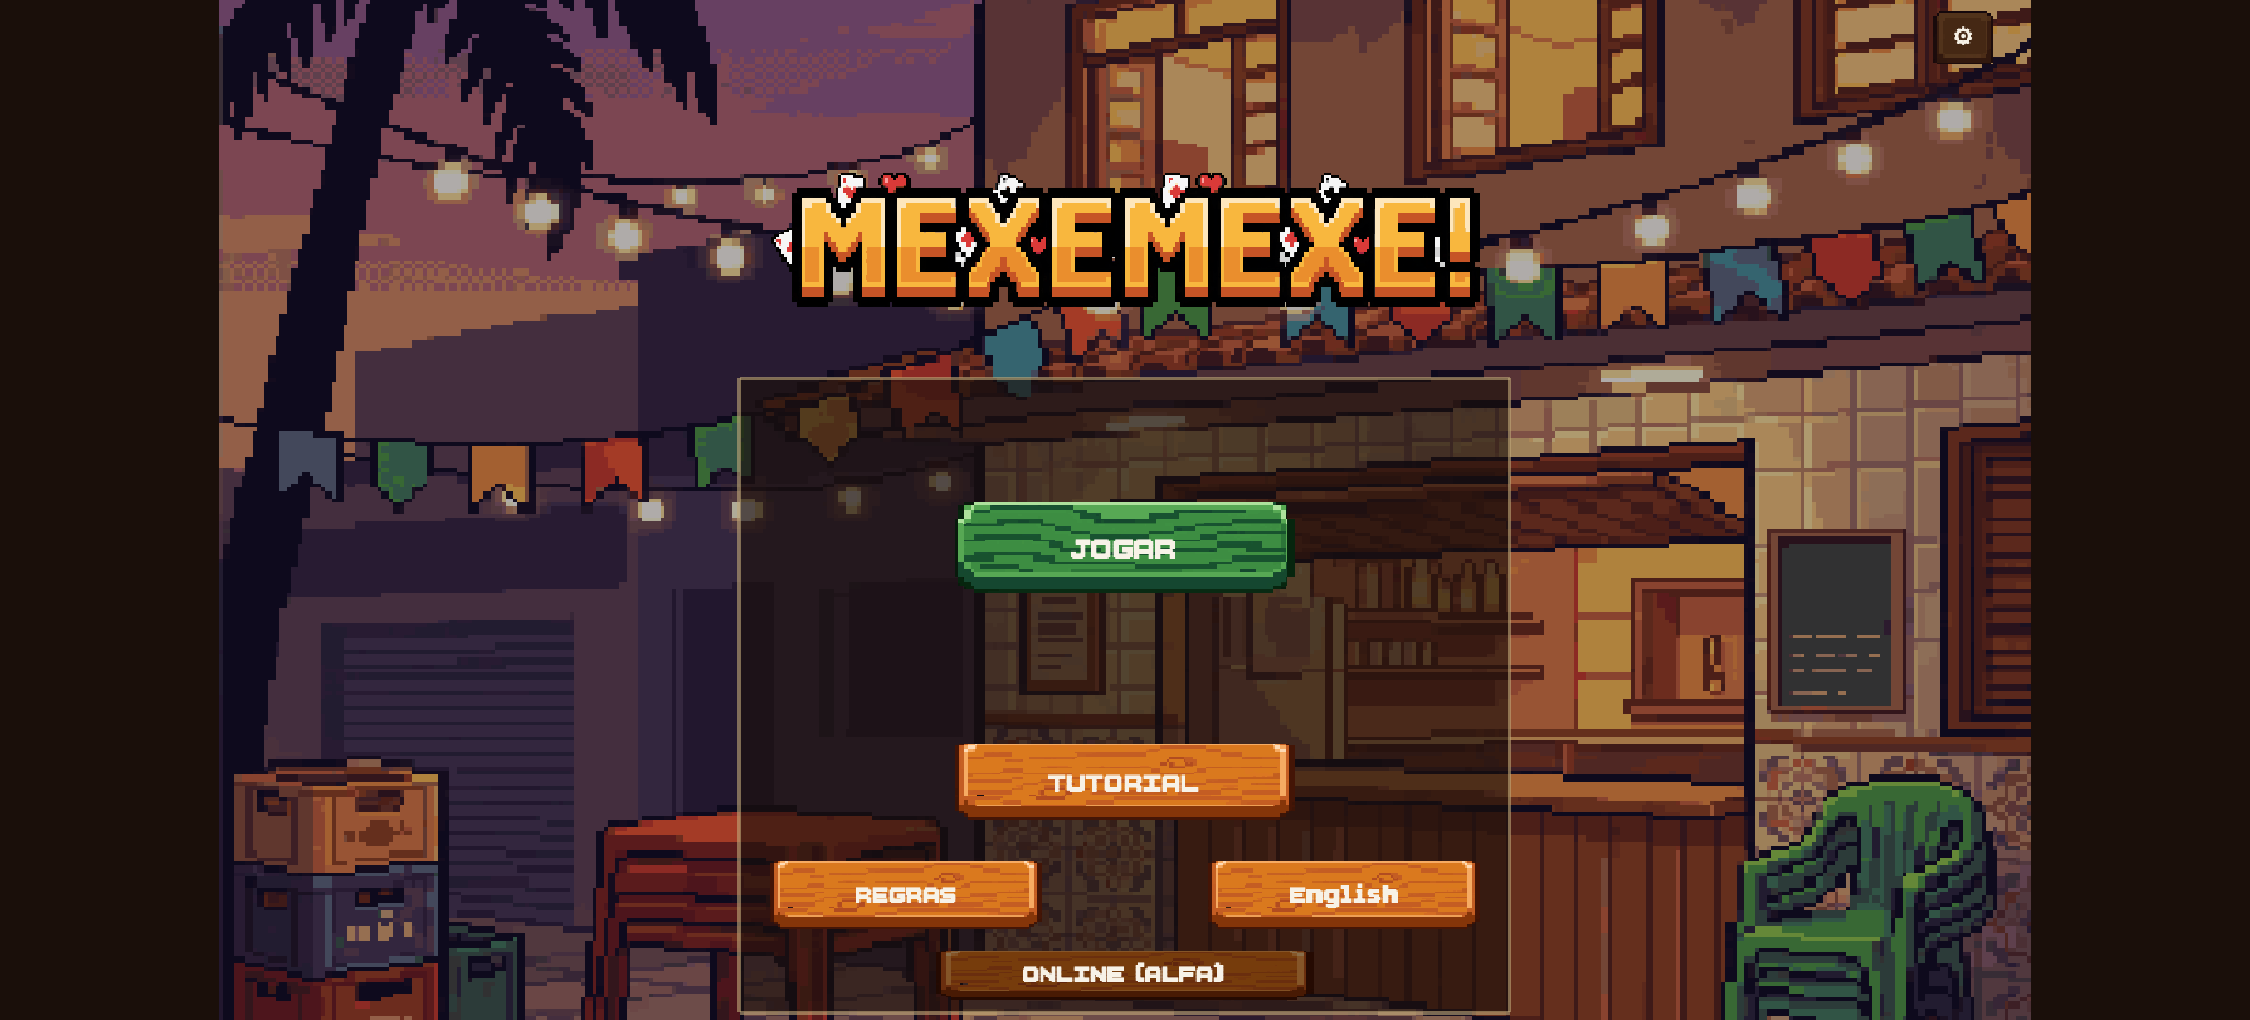
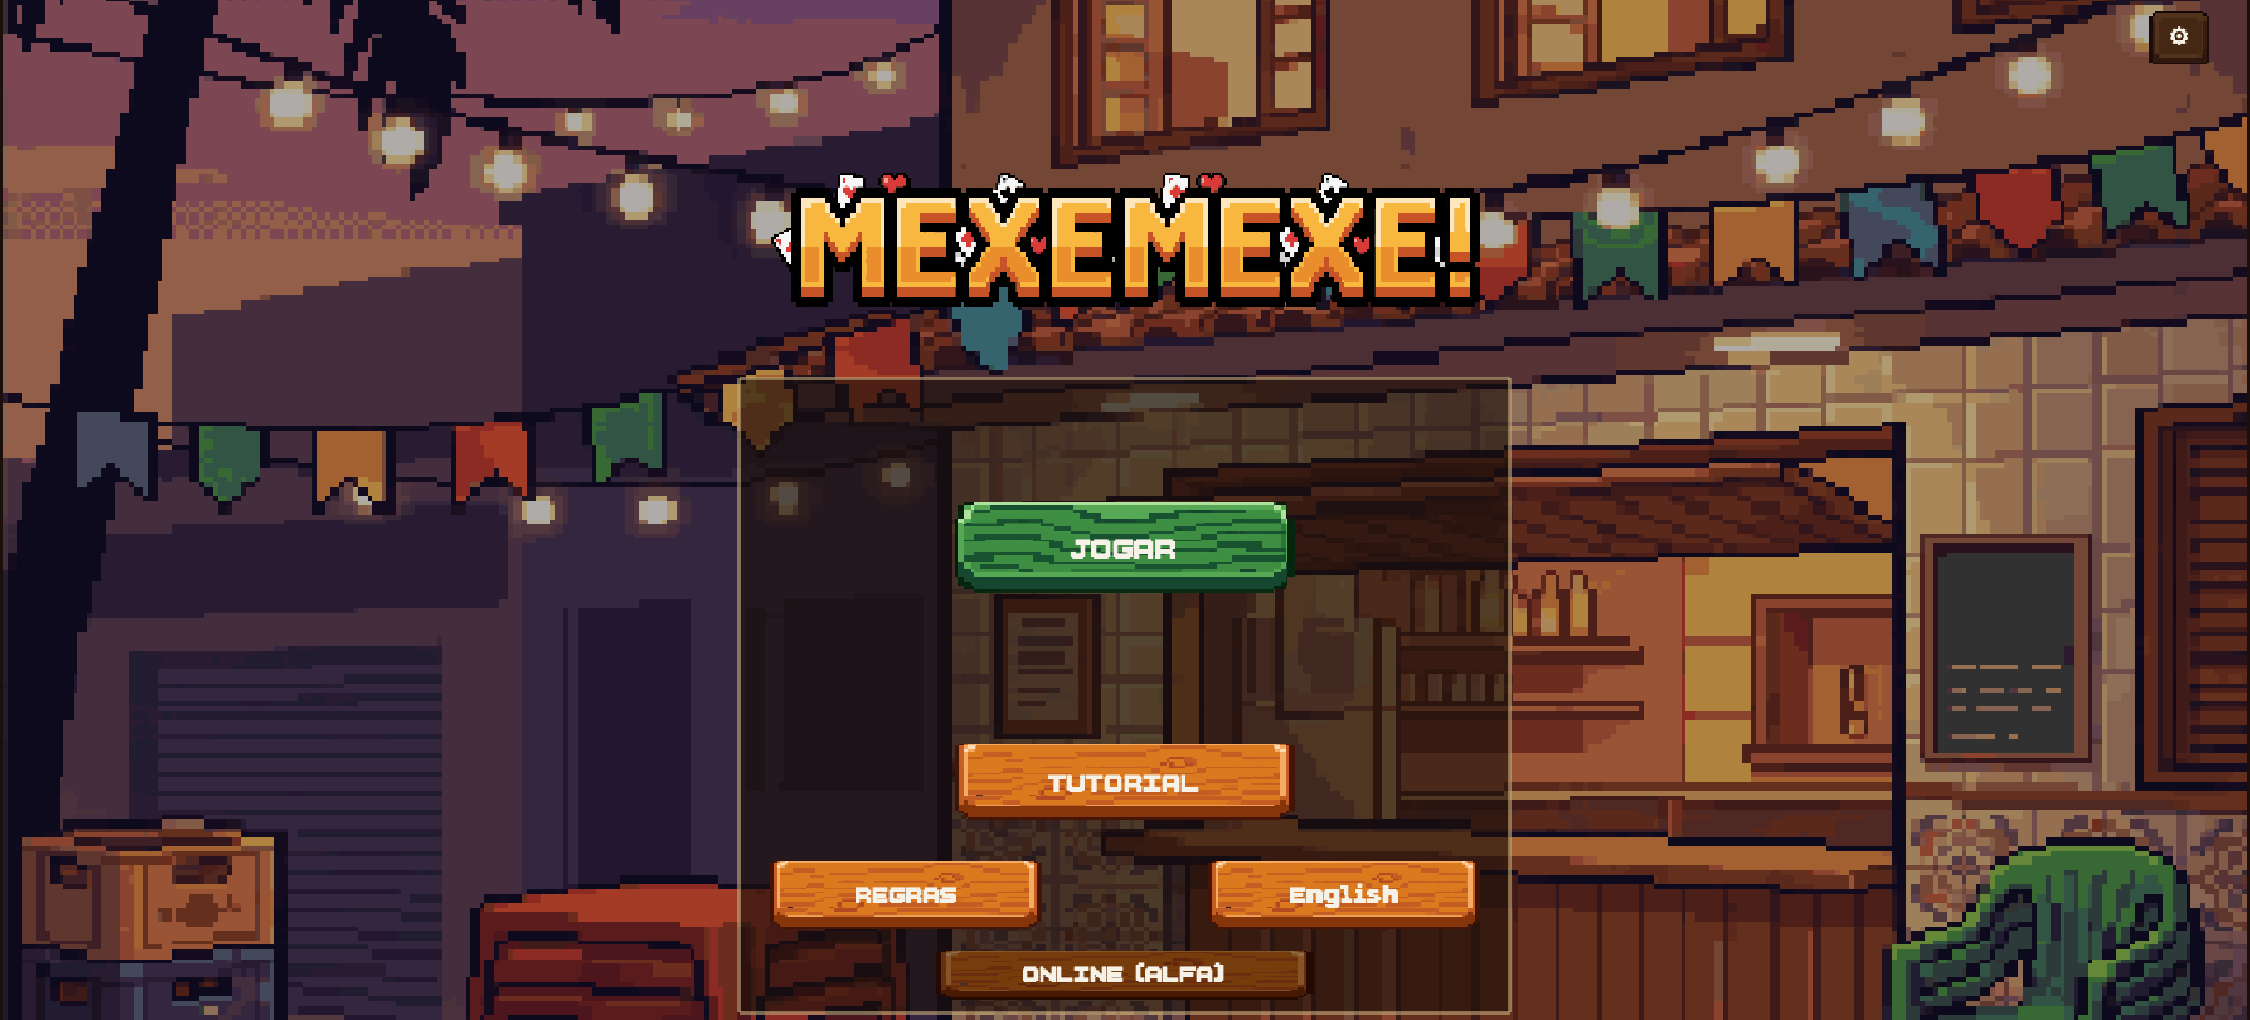
test(cross): read the world aspect from the running game
The cross-browser layout gate hardcoded 480/270 as the expected canvas
aspect, and the settings-slider test hardcoded the SFX track at world
x 210..310. Both assumed a fixed-width landscape world, so both broke on
the phone projects once the world started widening with the window.

Neither is a weaker assertion: the aspect check now reads the live world
from __MEXE__.viewport() and still fails on any stretch, and the slider
click is still aimed 10 units into the track, now measured from the live
centre instead of a baked-in 240.

Claude-Session: https://claude.ai/code/session_01DYFhvd3i1b1coFbc1WSTqX

diff --git a/e2e-cross/layout.spec.ts b/e2e-cross/layout.spec.ts
@@ -3,9 +3,11 @@ import fs from 'node:fs';
 import path from 'node:path';
 
 /**
- * Cross-browser layout gate: the game is one fixed 480x270 world scaled with Phaser's FIT mode,
+ * Cross-browser layout gate: the game is one fixed-height world scaled with Phaser's FIT mode,
  * so "aligned" means the canvas fits fully inside the viewport, stays centred, and keeps the
- * 16:9 aspect — on every engine (Chrome, Firefox, Safari/WebKit) and on phone viewports.
+ * live world's aspect — on every engine (Chrome, Firefox, Safari/WebKit) and on phone viewports.
+ * The landscape world widens with the window (src/ui/viewport.ts), so the expected aspect is
+ * read from the running game rather than hardcoded.
  * Runs the same three screens per project; screenshots land per project for eyeballing.
  */
 const OUT_DIR = 'docs/screenshots/cross-browser';
@@ -27,7 +29,12 @@ for (const screen of SCREENS) {
     const box = await page.evaluate(() => {
       const c = document.querySelector('canvas')!;
       const r = c.getBoundingClientRect();
-      return { x: r.x, y: r.y, w: r.width, h: r.height, vw: window.innerWidth, vh: window.innerHeight };
+      const v = window.__MEXE__.viewport();
+      return {
+        x: r.x, y: r.y, w: r.width, h: r.height,
+        vw: window.innerWidth, vh: window.innerHeight,
+        worldAspect: v.w / v.h,
+      };
     });
 
     // no overflow in either axis (1px slack for sub-pixel rounding across engines)
@@ -38,8 +45,8 @@ for (const screen of SCREENS) {
     // centred: equal margins left/right and top/bottom
     expect(Math.abs(box.x - (box.vw - box.w - box.x))).toBeLessThanOrEqual(2);
     expect(Math.abs(box.y - (box.vh - box.h - box.y))).toBeLessThanOrEqual(2);
-    // 16:9 preserved (FIT must never stretch)
-    expect(box.w / box.h).toBeCloseTo(480 / 270, 1);
+    // world aspect preserved (FIT must never stretch)
+    expect(box.w / box.h).toBeCloseTo(box.worldAspect, 1);
     // fills at least one axis — otherwise the world was scaled down for no reason
     expect(Math.max(box.w / box.vw, box.h / box.vh)).toBeGreaterThan(0.98);
 
@@ -57,13 +64,14 @@ test('settings sliders respond to a click at the point clicked', async ({ page }
   await page.waitForFunction(() => window.__MEXE__?.ready === true, undefined, { timeout: 30_000 });
 
   // Click the SFX track near its left end and read back what was persisted. The track spans
-  // world x 210..310 at y 46 (settings-panel.ts: cx-30, first row + ROW_PITCH).
-  const scale = await page.evaluate(() => document.querySelector('canvas')!.getBoundingClientRect().width / 480);
-  const origin = await page.evaluate(() => {
+  // 100 world units starting at cx - 30, at y 46 (settings-panel.ts: first row + ROW_PITCH).
+  // cx follows the live world width, which widens with the window in landscape.
+  const { scale, origin, trackLeft } = await page.evaluate(() => {
     const r = document.querySelector('canvas')!.getBoundingClientRect();
-    return { x: r.x, y: r.y };
+    const v = window.__MEXE__.viewport();
+    return { scale: r.width / v.w, origin: { x: r.x, y: r.y }, trackLeft: v.w / 2 - 30 };
   });
-  await page.mouse.click(origin.x + 220 * scale, origin.y + 46 * scale);
+  await page.mouse.click(origin.x + (trackLeft + 10) * scale, origin.y + 46 * scale);
 
   const vol = await page.evaluate(() => JSON.parse(localStorage.getItem('mexe-save') ?? '{}')?.settings?.sfxVolume);
   expect(vol).toBeGreaterThanOrEqual(0);
